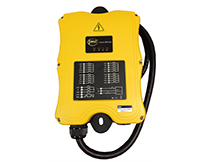
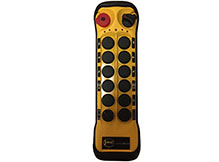
Product S-LYT12

diff --git a/html/fr/index.fourmies.php b/html/fr/index.fourmies.php
@@ -11,7 +11,7 @@
 			<div id="myCarousel" class="carousel slide">
 				<div class="carousel-inner">
 					<div class="item">
-						<img src="../img/home/slide-01.jpg?v=9" alt="JMei Solution-Electronic-Radio transmission">
+						<img src="../img/home/slide-01FR.jpg?v=9" alt="JMei Solution-Electronic-Radio transmission">
 						<div class="container">
 							<div class="carousel-caption">
 								<p class="lead">JMei, nominé à la Marianne de Cristal.<a class="btn btn-jmei pull-right" href="<?php echo Site::relativeUrl('about');?>">Plus d'infos...</a></p>
@@ -19,7 +19,7 @@
 						</div>
 					</div>
 					<div class="item">
-						<img src="../img/home/slide-01FR.jpg?v=3" alt="Radiocommande pour silo de stockage à grain">
+						<img src="../img/home/slide-08.jpg?v=3" alt="Radiocommande pour silo de stockage à grain">
 						<div class="container">
 							<div class="carousel-caption">
 								<p class="lead">Qualité, coût, fiabilité. Bienvenue dans le monde de la radiocommande JMei!
@@ -37,7 +37,7 @@
 						</div>
 					</div>
 					<div class="item">
-						<img src="../img/home/slide-04.jpg?v=2" alt="Commande à distance remorque">
+						<img src="../img/home/slide-01.jpg?v=2" alt="Commande à distance remorque">
 						<div class="container">
 							<div class="carousel-caption">
 								<p class="lead">JMei puise sa force  grâce à l'innovation constante.
@@ -72,7 +72,7 @@
 						</div>
 					</div>
 					<div class="item active">
-						<img src="../img/home/slide-08.jpg?v=2" alt="Commande pont roulant">
+						<img src="../img/home/slide-02.jpg?v=2" alt="Commande pont roulant">
 						<div class="container">
 							<div class="carousel-caption">
 								<p class="lead">Tous les types de personnalisation de la radiocommande avec les dernières technologies.

diff --git a/html/fr/produit-JMei-S-LYT.php b/html/fr/produit-JMei-S-LYT.php
@@ -99,8 +99,8 @@ Il est très résistant aux saletés, liquide, acide, graisse et infiltration d'
 					</div>
 					<div class="row">
 						<div class="span3">
-							<h6>Récepteur S-LYT</h6>
-							<img src="../img/product-SLYT/slyt_bot4.jpg" alt="Clé mémoire électronique pour radiocommande">
+							<h6>Radiocommande - S-LYT12</h6>
+							<img src="../img/product-SLYT/slyt_bot4.jpg?v=1" alt="Clé mémoire électronique pour radiocommande">
 						</div>
 						<div class="span3">
 							<h6>Radiocommande - S-LYT8 + sélecteur rotatif</h6>

diff --git a/html/fr/radiocommande.php b/html/fr/radiocommande.php
@@ -82,6 +82,7 @@ Possibilité d'un sélecteur de palan rotatif
                         <a href="../img/product-overview3/SLYT2_3.jpg" data-type="img"></a>
                         <a href="../img/product-overview3/SLYT2_4.jpg" data-type="img"></a>
                         <a href="../img/product-overview3/SLYT2_5.jpg" data-type="img"></a>
+                        <a href="../img/product-overview3/SLYT2_6.jpg" data-type="img"></a>
                     </div>
 				</div>
 				<div id="i3" class="tile span4">

diff --git a/html/fr/index.default.php b/html/fr/index.default.php
@@ -19,7 +19,7 @@
 						</div>
 					</div>
 					<div class="item">
-						<img src="../img/home/slide-02.jpg?v=3" alt="Radiocommande pour silo de stockage à grain">
+						<img src="../img/home/slide-02.jpg?v=4" alt="Radiocommande pour silo de stockage à grain">
 						<div class="container">
 							<div class="carousel-caption">
 								<p class="lead">Qualité, coût, fiabilité. Bienvenue dans le monde de la radiocommande JMei!
